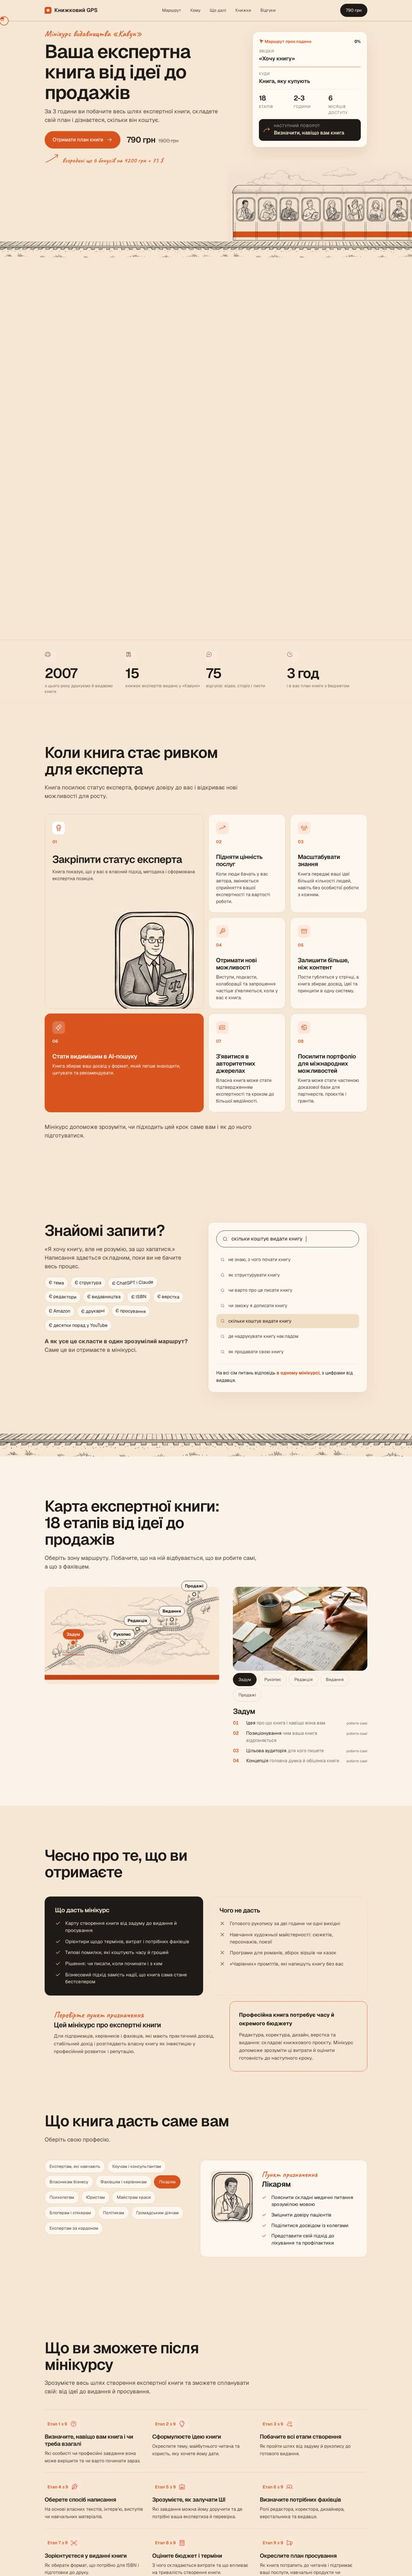
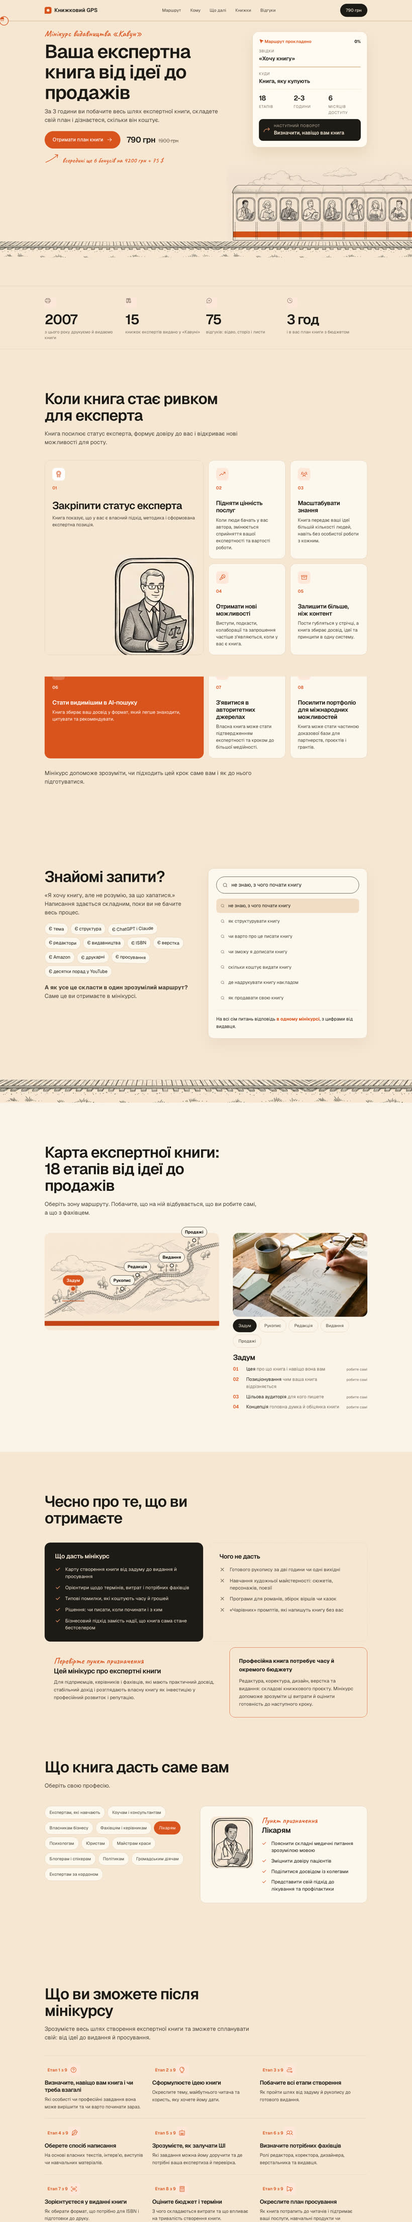
Кейсы участников: скрины сайтов без пустых полос, упаковка кейса 2

Changed region(s): [[0.0, 0.0, 1.0, 1.0], [0.6098, 0.9362, 0.8232, 1.0], [0.3354, 0.156, 0.3659, 0.1872]]

diff --git a/keisy-uchastnikov/index.html b/keisy-uchastnikov/index.html
@@ -549,7 +549,7 @@ html[lang="uk"] .ru, html[lang="ru"] .uk { display: none !important; }
 .sec-tall { --h0: 1540px; height: calc(max(var(--h0), var(--H, 1080px)) * var(--k, .5)); }
 .sec-tall .slide { height: max(var(--h0), var(--H, 1080px)); }
 #case4.sec-tall { --h0: 1320px; }
-#case2.sec-tall { --h0: 1360px; }
+#case2.sec-tall { --h0: 1400px; }
 #case3.sec-tall { --h0: 1280px; }
 #case6.sec-tall { --h0: 1260px; }
 #more.sec-tall { --h0: 1600px; }
@@ -571,7 +571,7 @@ html[lang="uk"] .ru, html[lang="ru"] .uk { display: none !important; }
 #case2 .slide { padding-top: 72px; }
 #case2 .slide::after { content: ""; position: absolute; left: 50%; top: 600px; width: 1500px; height: 320px; transform: translateX(-50%); pointer-events: none; z-index: 0; background: radial-gradient(closest-side, rgba(var(--gold-rgb),0.13), transparent); filter: blur(20px); }
 #case2 .body { margin-top: 34px; }
-.c2 { display: flex; flex-direction: column; gap: 26px; }
+.c2 { display: flex; flex-direction: column; gap: 48px; }
 .c2-h { display: flex; align-items: center; gap: 18px; height: 34px; margin-bottom: 18px; }
 .c2-hint { font: 500 18px var(--display); color: var(--text-mid); }
 .c2-s3 { display: grid; grid-template-columns: repeat(3, minmax(0,1fr)); gap: 40px; perspective: 2400px; }
@@ -584,10 +584,12 @@ html[lang="uk"] .ru, html[lang="ru"] .uk { display: none !important; }
 .c2-s3 > div .shot:hover { transform: translateY(-6px); }
 .c2-s3 .cap { display: flex; align-items: baseline; flex-wrap: wrap; gap: 4px 12px; margin-top: 16px; font-size: 22px; }
 .c2-s3 .cap small { flex-basis: 100%; margin: 0; font-size: 17px; }
-.c2-ph { display: grid; grid-template-columns: 1fr 1fr; gap: 40px; }
+.c2-ph { display: grid; grid-template-columns: minmax(0,1fr) minmax(0,1fr) 380px; gap: 32px; align-items: center; }
+.c2-q { margin-left: 16px; }
+.c2-q q { font-size: 28px; line-height: 1.3; }
+#case2 .lead { max-width: 1400px; font-size: 24px; margin-top: 16px; }
 .c2-reel { position: relative; overflow: hidden; display: grid; grid-template-columns: 146px minmax(0,1fr); gap: 32px; align-items: center; padding: 16px 32px 16px 16px; border-radius: 30px; background: linear-gradient(120deg, rgba(var(--gold-rgb),0.10), rgba(255,255,255,0.03) 45%, rgba(255,255,255,0.015)); border: 1px solid rgba(var(--gold-rgb),0.22); box-shadow: 0 30px 60px -30px rgba(0,0,0,0.85), inset 0 1px 0 rgba(255,255,255,0.06); }
 .c2-reel-t { position: relative; display: flex; flex-direction: column; align-items: flex-start; }
-.c2-agent { font: 500 13px var(--mono); letter-spacing: .14em; text-transform: uppercase; color: var(--gold); margin-bottom: 14px; }
 .c2-reel .phone { width: 146px; padding: 6px; border-radius: 27px; box-shadow: inset 0 0 0 1px rgba(255,255,255,0.07), 0 0 0 2px #8b9099, 0 0 0 3px #2a2b2f, 0 24px 50px -16px rgba(0,0,0,0.85); }
 .c2-reel .phone-screen { border-radius: 22px; }
 .c2-reel .phone-island { top: 11px; width: 50px; height: 14px; }
@@ -655,10 +657,12 @@ html[lang="uk"] .ru, html[lang="ru"] .uk { display: none !important; }
   .c2-s3 .cap { margin-top: 10px; font-size: 16px; }
   .c2-s3 .cap small { margin-left: 0; font-size: 13.5px; }
   .c2-ph { grid-template-columns: minmax(0,1fr); gap: 16px; }
+  .c2-q { margin-left: 0; }
+  .c2-q q { font-size: 18px; }
+  #case2 .lead { font-size: 15px; }
   .c2-reel { grid-template-columns: 120px minmax(0,1fr); gap: 16px; padding: 12px 16px 12px 12px; border-radius: 22px; }
   .c2-reel .phone { width: 120px; }
-    .c2-agent { font-size: 10px; margin-bottom: 8px; }
-  .c2-reel b { font-size: 17px; margin-top: 8px; }
+    .c2-reel b { font-size: 17px; margin-top: 8px; }
   .c2-reel small { font-size: 13.5px; }
   .vs-low { grid-template-columns: 1fr; gap: 20px; margin-top: 24px; }
   .vs-low .phone { width: 200px; margin: 0 auto; }
@@ -807,6 +811,7 @@ html[lang="uk"] .ru, html[lang="ru"] .uk { display: none !important; }
 <section class="sec sec-tall" id="case2"><div class="slide">
   <div class="eyebrow"><span class="ru">Кейс 2 · бьюти-компания, несколько стран</span><span class="uk">Кейс 2 · б'юті-компанія, кілька країн</span></div>
   <h2 class="title"><span class="ru">Три сайта за 3&nbsp;часа и два ролика без съемок</span><span class="uk">Три сайти за 3&nbsp;години і два ролики без зйомок</span></h2>
+  <p class="lead"><span class="ru">Бизнес: косметика для профессионалов и свой салон, компания работает в нескольких странах. Цель на потоке – упаковать свои решения в продукт для мастеров.</span><span class="uk">Бізнес: косметика для професіоналів і власний салон, компанія працює в кількох країнах. Мета на потоці – упакувати свої рішення в продукт для майстрів.</span></p>
   <div class="body c2">
     <div class="c2-sites">
       <div class="c2-h"><span class="tag"><span class="ru">Агент «AI&#8209;сайты»</span><span class="uk">Агент «AI&#8209;сайти»</span></span><span class="c2-hint"><span class="ru">Три направления компании – три сайта</span><span class="uk">Три напрями компанії – три сайти</span></span></div>
@@ -826,15 +831,17 @@ html[lang="uk"] .ru, html[lang="ru"] .uk { display: none !important; }
       </div>
     </div>
     <div class="c2-reels">
+      <div class="c2-h"><span class="tag"><span class="ru">Агент «AI&#8209;монтаж»</span><span class="uk">Агент «AI&#8209;монтаж»</span></span><span class="c2-hint"><span class="ru">Два ролика без съемок</span><span class="uk">Два ролики без зйомок</span></span></div>
       <div class="c2-ph">
         <div class="c2-reel">
           <div class="phone"><div class="phone-screen"><video src="video/beauty-raschet.mp4" poster="video/beauty-raschet.jpg" autoplay muted loop playsinline preload="metadata"></video></div><div class="phone-island"></div><button type="button" class="snd"><span class="s-on"><span class="ru">Включить звук</span><span class="uk">Увімкнути звук</span></span><span class="s-off"><span class="ru">Выключить звук</span><span class="uk">Вимкнути звук</span></span></button></div>
-          <div class="c2-reel-t"><span class="c2-agent"><span class="ru">Агент «AI&#8209;монтаж»</span><span class="uk">Агент «AI&#8209;монтаж»</span></span><span class="tag"><span class="ru">Анимация</span><span class="uk">Анімація</span></span><b><span class="ru">Ролик для мастеров</span><span class="uk">Ролик для майстрів</span></b><small><span class="ru">Считает реальную цену шугаринга</span><span class="uk">Рахує реальну ціну шугарингу</span></small></div>
+          <div class="c2-reel-t"><span class="tag"><span class="ru">Анимация</span><span class="uk">Анімація</span></span><b><span class="ru">Ролик для мастеров</span><span class="uk">Ролик для майстрів</span></b><small><span class="ru">Считает реальную цену шугаринга</span><span class="uk">Рахує реальну ціну шугарингу</span></small></div>
         </div>
         <div class="c2-reel">
           <div class="phone"><div class="phone-screen"><video src="video/beauty-avatar.mp4" poster="video/beauty-avatar.jpg" autoplay muted loop playsinline preload="metadata"></video></div><div class="phone-island"></div><button type="button" class="snd"><span class="s-on"><span class="ru">Включить звук</span><span class="uk">Увімкнути звук</span></span><span class="s-off"><span class="ru">Выключить звук</span><span class="uk">Вимкнути звук</span></span></button></div>
-          <div class="c2-reel-t"><span class="c2-agent"><span class="ru">Агент «AI&#8209;монтаж»</span><span class="uk">Агент «AI&#8209;монтаж»</span></span><span class="tag tag-gold"><span class="ru">AI-аватар, не съемка</span><span class="uk">AI-аватар, не зйомка</span></span><b><span class="ru">Розыгрыш выходных</span><span class="uk">Розіграш вікенду</span></b><small><span class="ru">Основательница ничего не записывала</span><span class="uk">Засновниця нічого не записувала</span></small></div>
+          <div class="c2-reel-t"><span class="tag tag-gold"><span class="ru">AI-аватар, не съемка</span><span class="uk">AI-аватар, не зйомка</span></span><b><span class="ru">Розыгрыш выходных</span><span class="uk">Розіграш вікенду</span></b><small><span class="ru">Основательница ничего не записывала</span><span class="uk">Засновниця нічого не записувала</span></small></div>
         </div>
+        <div class="lq c2-q"><q><span class="ru">Я вчера собирала 3&nbsp;сайта около 3&nbsp;часов</span><span class="uk">Я вчора збирала 3&nbsp;сайти близько 3&nbsp;годин</span></q><span><span class="ru">участница, 5 ноября</span><span class="uk">учасниця, 5 листопада</span></span></div>
       </div>
     </div>
   </div>
